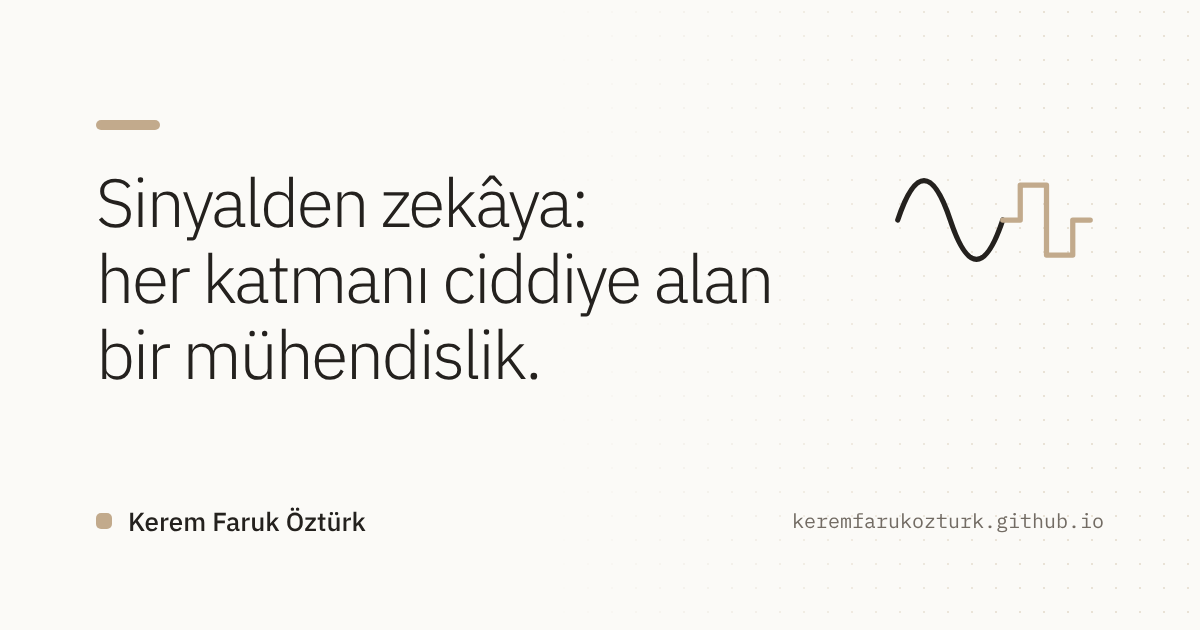
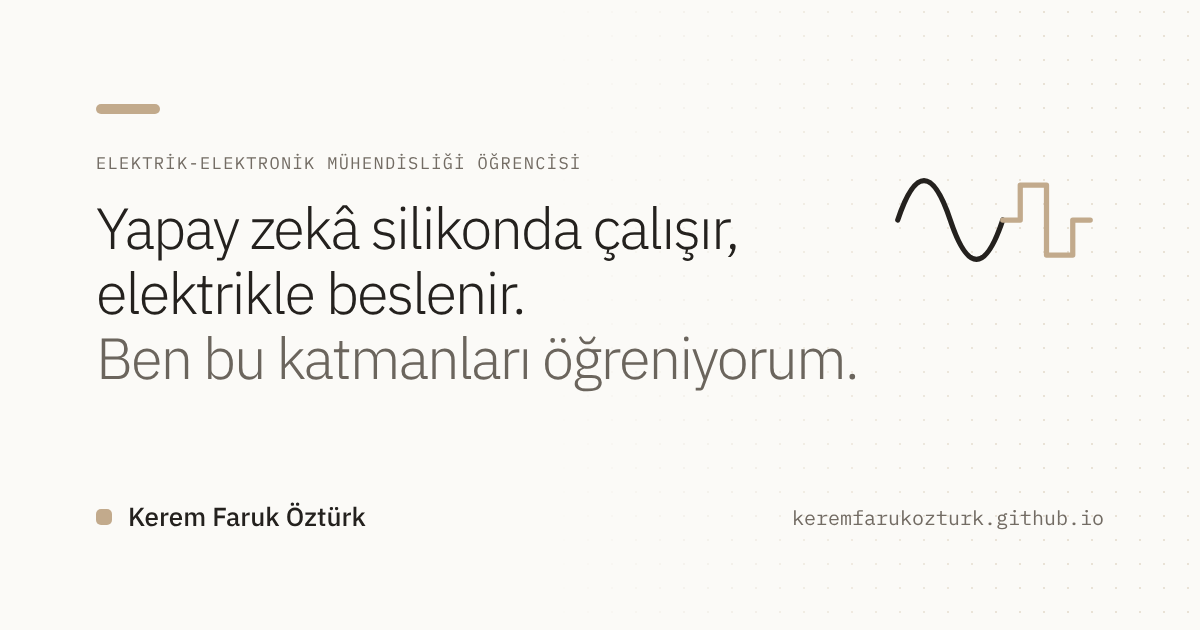
Ana sayfa ve Hakkımda metinlerini yenile, fotoğraf ekle
- Ana sayfa: "Elektrik-elektronik mühendisliği öğrencisi" etiketi ve yeni giriş:
  "Yapay zekâ silikonda çalışır, elektrikle beslenir. Ben bu katmanları öğreniyorum."
- "Odak" satırı kaldırıldı (bilgi artık giriş paragrafında)
- Hakkımda: ana odak (yapay zekâ donanımı) ve yan alanlar, Şimdi / Sıradaki bölümleri,
  fotoğraf (meta verisi olmayan WebP); "Bu sayfa hazırlanıyor" satırı kaldırıldı
- Site açıklaması ve paylaşım görseli yeni metne göre güncellendi

Claude-Session: https://claude.ai/code/session_01AR14QjN7rgHvc83wszqaRT

diff --git a/assets/css/main.css b/assets/css/main.css
@@ -83,14 +83,17 @@ img, video, svg, canvas { display: block; max-width: 100%; }
 .nav a[aria-current]::after { content: ""; position: absolute; left: 0; right: 0; bottom: -6px; height: 3px; border-radius: 3px; background: var(--tan); }
 
 /* ---------- 5. Ana sayfa: giriş ---------- */
-.hero { display: grid; grid-template-columns: repeat(12, 1fr); grid-template-rows: auto auto auto 1fr; gap: 24px; align-items: start; padding: 120px 0 136px; }
-.hero .bar { grid-column: 1 / 13; margin-bottom: 36px; }
-.hero h1 { grid-column: 1 / 8; margin: 0; font-weight: 300; font-size: 50px; line-height: 1.12; letter-spacing: -.035em; }
+.hero { display: grid; grid-template-columns: repeat(12, 1fr); gap: 24px; align-items: center; padding: 104px 0 136px; }
+.hero-text { grid-column: 1 / 8; }
+.hero .bar { margin-bottom: 32px; }
+.hero .kicker { margin-bottom: 22px; }
+.hero h1 { margin: 0; font-weight: 300; font-size: clamp(34px, 3.2vw, 42px); line-height: 1.14; letter-spacing: -.035em; }
 .hero h1 span { display: block; }
-.hero p { grid-column: 1 / 7; margin: 40px 0 0; font-family: var(--serif); font-size: 18px; line-height: 1.65; color: var(--soft); }
-.hero .focus { grid-column: 1 / 7; margin-top: 4px; }
+.hero h1 .soft { color: var(--soft); }
+.hero .intro { max-width: 520px; margin: 36px 0 0; font-family: var(--serif); font-size: 18px; line-height: 1.65; color: var(--soft); }
+.hero .focus { margin-top: 18px; }
 .hero .focus b { font-weight: 400; color: var(--ink); }
-.media { grid-column: 8 / 13; grid-row: 2 / 5; aspect-ratio: 4 / 5; border-radius: 16px; overflow: hidden; background: var(--media); border: 1px solid var(--line); }
+.media { grid-column: 8 / 13; aspect-ratio: 4 / 5; border-radius: 16px; overflow: hidden; background: var(--media); border: 1px solid var(--line); }
 .media canvas { width: 100%; height: 100%; }
 
 /* ---------- 6. Bölümler ---------- */
@@ -185,6 +188,18 @@ img, video, svg, canvas { display: block; max-width: 100%; }
 .prose .katex { font-size: 1.05em; }
 .prose .katex-display { margin: 28px 0; overflow-x: auto; overflow-y: hidden; padding: 4px 0; }
 
+/* Hakkımda */
+.about { display: grid; grid-template-columns: minmax(0, 660px) 200px; gap: 64px; align-items: start; }
+.about .prose { grid-column: 1; grid-row: 1; }
+.about-photo { grid-column: 2; grid-row: 1; margin: 6px 0 0; }
+.about-photo img { width: 100%; height: auto; aspect-ratio: 1; object-fit: cover; border-radius: var(--radius); border: 1px solid var(--line); box-shadow: 0 1px 0 var(--edge); }
+.status { max-width: 660px; margin-top: 48px; padding-top: 22px; border-top: 1px solid var(--line); }
+.status ul { margin-top: 14px; }
+.status li { position: relative; padding: 8px 0 8px 24px; font-family: var(--serif); font-size: 18px; line-height: 1.65; }
+.status li::before { content: ""; position: absolute; left: 0; top: 1.15em; width: 10px; height: 3px; border-radius: 3px; background: var(--tan); }
+.status b { font-family: var(--sans); font-weight: 500; font-size: 17px; }
+.about-note { max-width: 660px; margin: 48px 0 0; font-family: var(--serif); font-style: italic; font-size: 18px; color: var(--soft); }
+
 /* Hakkımda > iletişim */
 .contact { margin-top: 72px; padding-top: 28px; border-top: 1px solid var(--line); max-width: 660px; scroll-margin-top: 24px; }
 .contact ul { margin-top: 18px; }
@@ -218,7 +233,8 @@ img, video, svg, canvas { display: block; max-width: 100%; }
 .hero h1 span:nth-child(1) { animation-delay: .25s; }
 .hero h1 span:nth-child(2) { animation-delay: .38s; }
 .hero h1 span:nth-child(3) { animation-delay: .51s; }
-.hero p { animation: rise .9s var(--ease) .65s both; }
+.hero .kicker { animation: fade .9s ease .15s both; }
+.hero .intro { animation: rise .9s var(--ease) .65s both; }
 .hero .focus { animation: fade .9s ease .85s both; }
 .media { animation: fade 1.4s ease .3s both; }
 .reveal { opacity: 0; transform: translateY(22px); transition: opacity .9s var(--ease), transform .9s var(--ease); }
@@ -238,11 +254,11 @@ img, video, svg, canvas { display: block; max-width: 100%; }
   :root { --gutter: 20px; }
   .site-header { flex-direction: column; align-items: flex-start; gap: 18px; padding-top: 28px; padding-bottom: 20px; }
   .nav { gap: 22px; flex-wrap: wrap; }
-  .hero { grid-template-rows: none; padding: 56px 0 80px; }
-  .hero h1, .hero p, .hero .focus, .media { grid-column: 1 / 13; grid-row: auto; }
-  .hero h1 { font-size: 32px; }
-  .hero p { margin-top: 12px; }
-  .media { margin-top: 24px; }
+  .hero { padding: 56px 0 80px; }
+  .hero-text, .media { grid-column: 1 / 13; }
+  .hero h1 { font-size: 31px; }
+  .hero .intro { margin-top: 24px; }
+  .media { margin-top: 16px; }
   .cards { grid-template-columns: 1fr; }
   .card { min-height: 0; }
   .sec { padding-bottom: 72px; }
@@ -253,5 +269,9 @@ img, video, svg, canvas { display: block; max-width: 100%; }
   .page-head h1, .article h1 { font-size: 32px; }
   .prose { font-size: 18px; }
   .contact li, .spec dl div { grid-template-columns: 1fr; gap: 2px; }
+  .about { grid-template-columns: 1fr; gap: 28px; }
+  .about-photo { grid-column: 1; grid-row: 1; width: 140px; margin: 0; }
+  .about .prose { grid-row: 2; }
+  .status li { font-size: 17px; }
   .site-footer .w { flex-direction: column; align-items: flex-start; gap: 14px; }
 }

diff --git a/index.html b/index.html
@@ -1,21 +1,25 @@
 ---
 layout: default
 intro_animation: true
+kicker: "Elektrik-elektronik mühendisliği öğrencisi"
 hero:
-  - "Sinyalden zekâya:"
-  - "her katmanı ciddiye alan"
-  - "bir mühendislik."
+  - "Yapay zekâ silikonda çalışır,"
+  - "elektrikle beslenir."
+hero_soft: "Ben bu katmanları öğreniyorum."
 ---
 {%- assign t = site.data.ui[site.lang] -%}
 <div class="w">
   <section class="hero" aria-label="Giriş">
-    <span class="bar" aria-hidden="true"></span>
-    <h1>{% for line in page.hero %}<span>{{ line }}</span> {% endfor %}</h1>
+    <div class="hero-text">
+      <span class="bar" aria-hidden="true"></span>
+      <p class="kicker label">{{ page.kicker }}</p>
+      <h1>{% for line in page.hero %}<span>{{ line }}</span> {% endfor %}<span class="soft">{{ page.hero_soft }}</span></h1>
+      <p class="intro">{{ site.intro }}</p>
+      {%- if site.focus != "" %}
+      <div class="focus mono">{{ t.focus }} — <b>{{ site.focus }}</b></div>
+      {%- endif %}
+    </div>
     <div class="media"><canvas id="intro" role="img" aria-label="{{ t.intro_alt }}"></canvas></div>
-    <p>{{ site.intro }}</p>
-    {%- if site.focus != "" %}
-    <div class="focus mono">{{ t.focus }} — <b>{{ site.focus }}</b></div>
-    {%- endif %}
   </section>
 
   <section class="sec" aria-labelledby="projeler-baslik">

diff --git a/hakkimda.md b/hakkimda.md
@@ -4,13 +4,36 @@ title: Hakkımda
 lede: Elektrik-elektronik mühendisliği öğrencisiyim.
 ---
 
+<div class="about">
+<figure class="about-photo">
+  <img src="{{ '/assets/img/kerem.webp' | relative_url }}" alt="Kerem Faruk Öztürk" width="400" height="400" loading="eager" decoding="async">
+</figure>
+
 <div class="prose" markdown="1">
 
-Yapay zekânın hem yazılım hem de donanım tarafıyla ilgileniyorum; özellikle de onu sınırlayan darboğazlarla. Bir alanda derinleşmeyi, o alanı besleyen yan alanlarda da kendimi geliştirmeyi önemsiyorum.
+Yapay zekânın görünmeyen tarafıyla ilgileniyorum: modelleri çalıştıran çipler, o çipleri besleyen enerji ve bu sistemleri güvende tutmanın yolları. Yapay zekâ ne kadar hızlı gelişirse gelişsin silikonun, enerjinin ve güvenliğin sınırlarına takılıyor. Derinleşmek istediğim yer bu sınırlar.
 
-Bu sayfa hazırlanıyor.
+Ana odağım yapay zekâ donanımı: çip tasarımı ve doğrulama. Güç elektroniği ve yapay zekâ güvenliği bu odağı besleyen yan alanlarım. Hedefim, güvenliği sonradan eklenen değil, tasarımın ilk adımından itibaren düşünülen sistemler inşa eden bir mühendis olmak.
 
 </div>
+</div>
+
+<section class="status" aria-labelledby="simdi-baslik">
+  <h2 class="label" id="simdi-baslik">Şimdi</h2>
+  <ul>
+    <li>Siber Vatan programında siber güvenlik ve yapay zekâ güvenliği eğitimleri alıyorum.</li>
+    <li><b>Küçük bir yapay zekâ hızlandırıcısı:</b> Sinir ağı çıkarımı için sade bir donanım tasarımı üzerinde çalışmaya başlıyorum. Tasarımdan doğrulamaya ve FPGA'ya kadar her aşamayı burada belgeleyeceğim.</li>
+  </ul>
+</section>
+
+<section class="status" aria-labelledby="siradaki-baslik">
+  <h2 class="label" id="siradaki-baslik">Sıradaki</h2>
+  <ul>
+    <li><b>Güç elektroniği:</b> Veri merkezi güç mimarisinin küçük ölçekli bir modeli.</li>
+  </ul>
+</section>
+
+<p class="about-note">Bu sitede projelerimi, deneylerimi ve öğrendiklerimi hatalarımla birlikte belgeliyorum.</p>
 
 <section class="contact" id="iletisim" aria-labelledby="iletisim-baslik">
   <h2 class="label" id="iletisim-baslik">İletişim</h2>

diff --git a/README.md b/README.md
@@ -1,7 +1,7 @@
 # keremfarukozturk.github.io
 
 Kerem Faruk Öztürk'ün kişisel web sitesi: yazılar, projeler ve notlar.
-**Sinyalden zekâya: her katmanı ciddiye alan bir mühendislik.**
+**Yapay zekâ silikonda çalışır, elektrikle beslenir. Ben bu katmanları öğreniyorum.**
 
 Site [Jekyll](https://jekyllrb.com/) ile yazıldı ve GitHub Pages tarafından ücretsiz olarak derlenip yayınlanır. Ek bir derleme hattı, Node.js ya da dış kütüphane yoktur.
 
